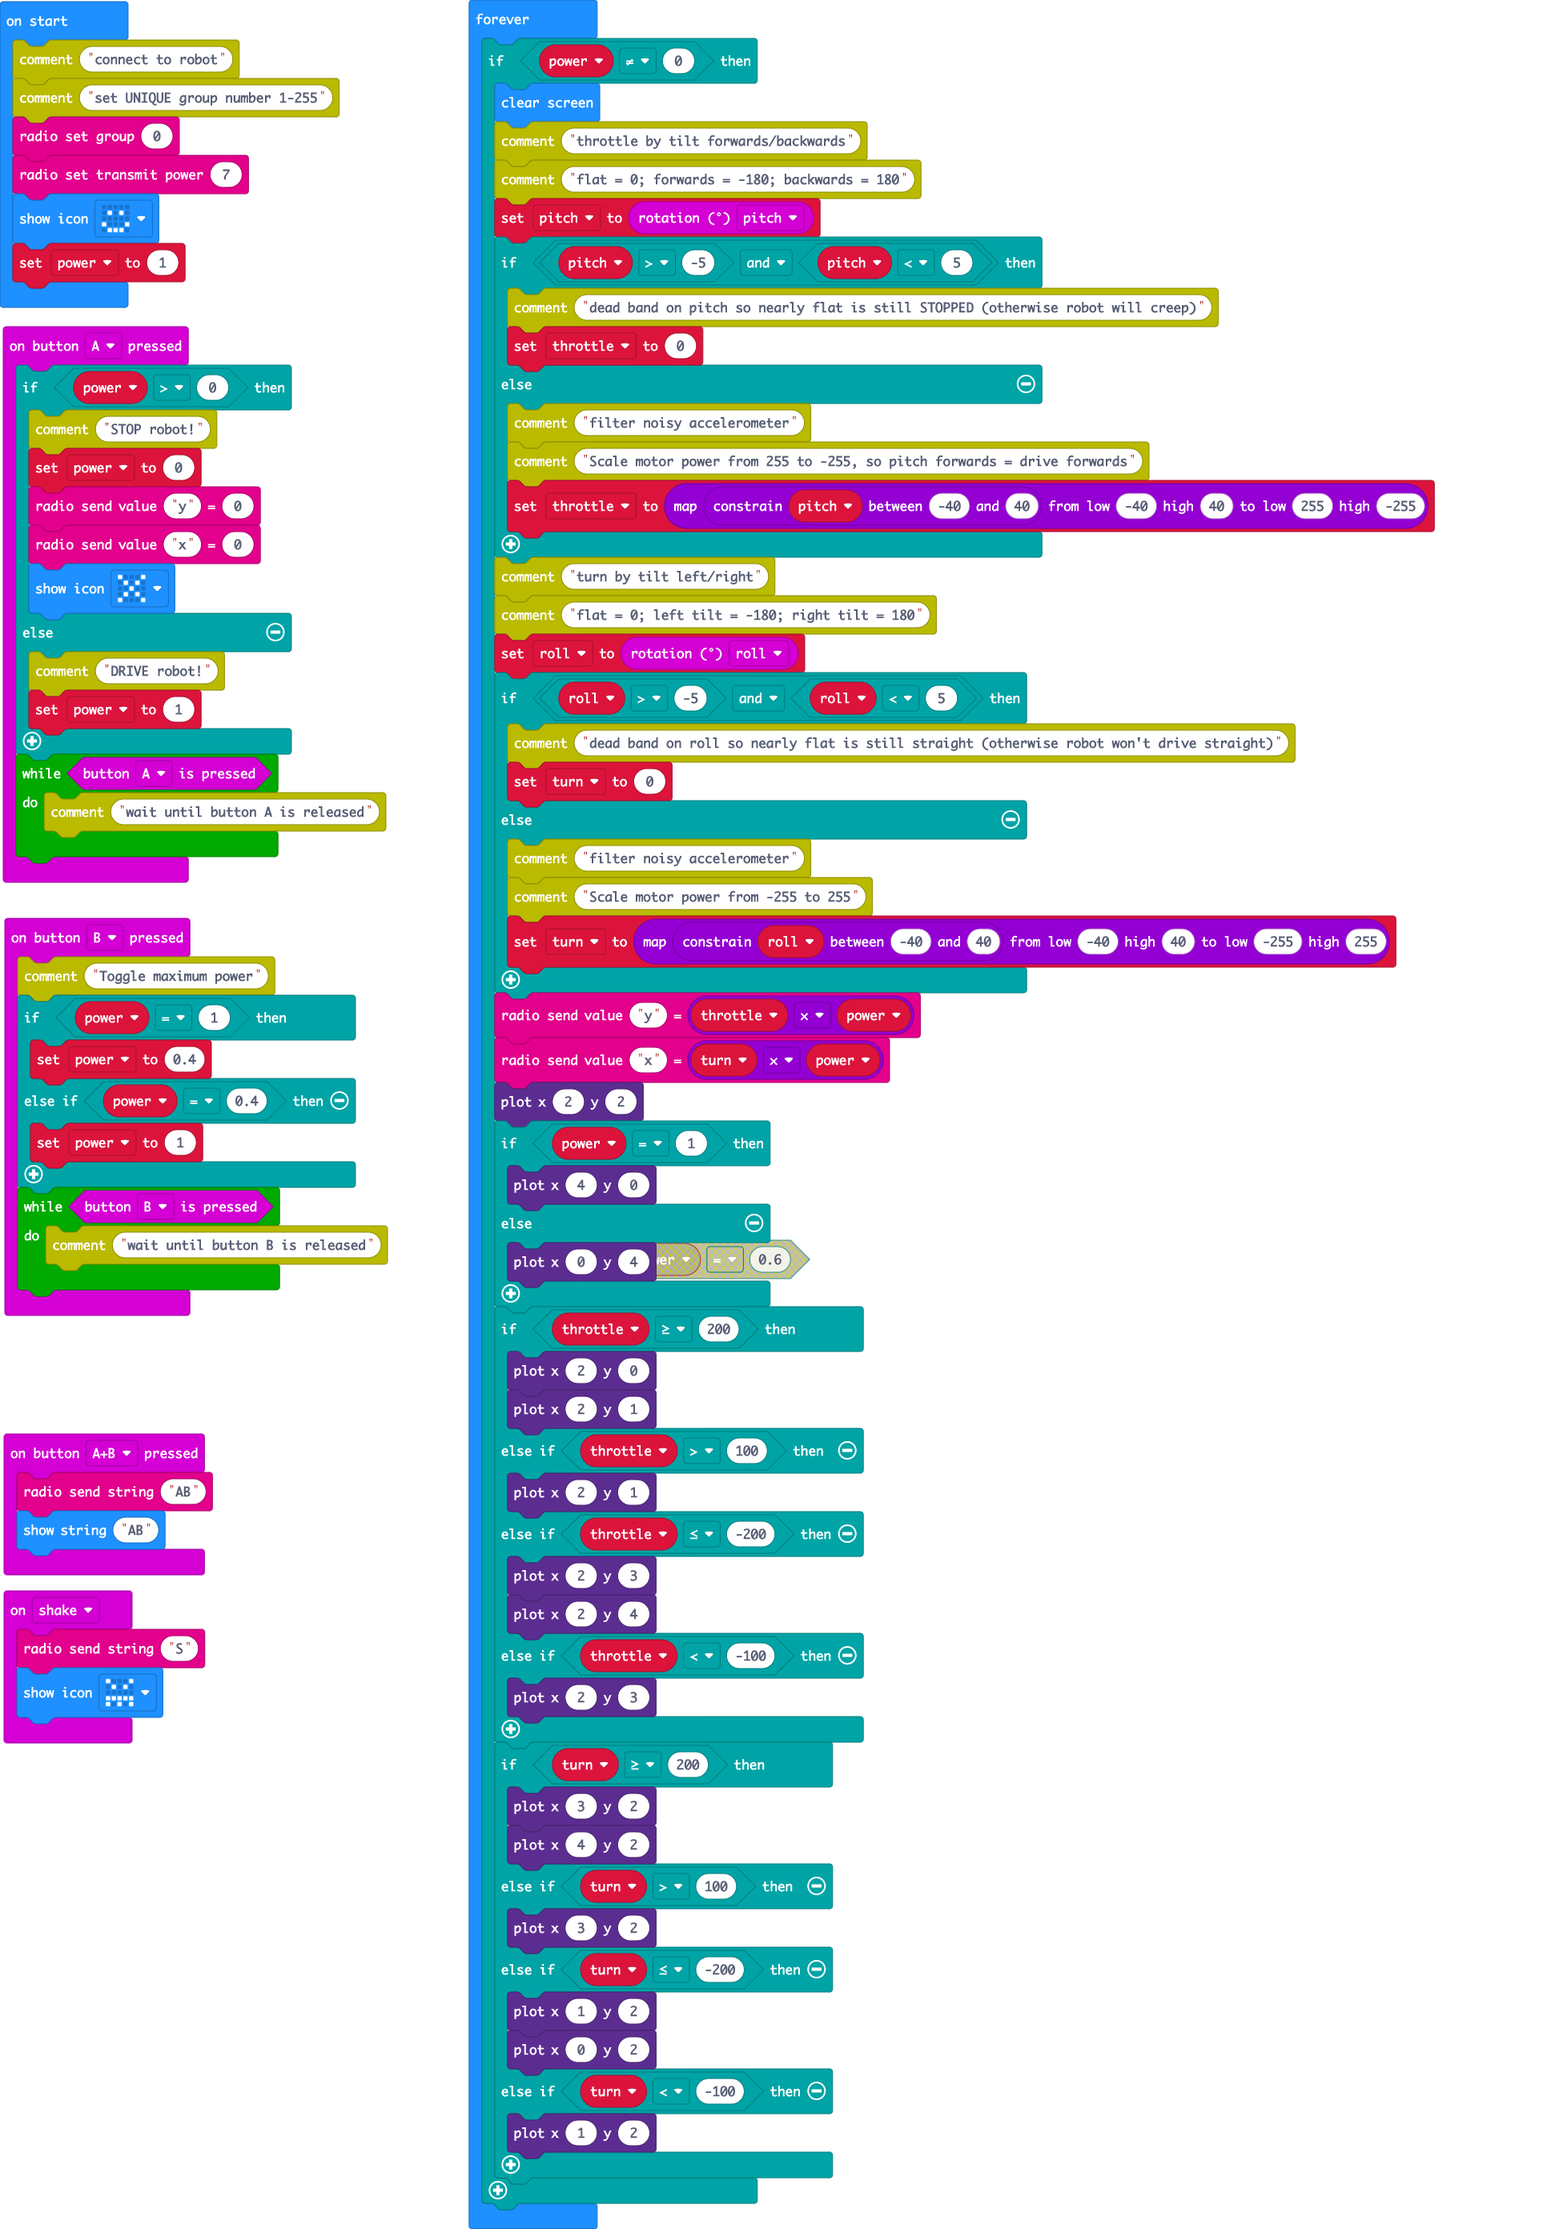
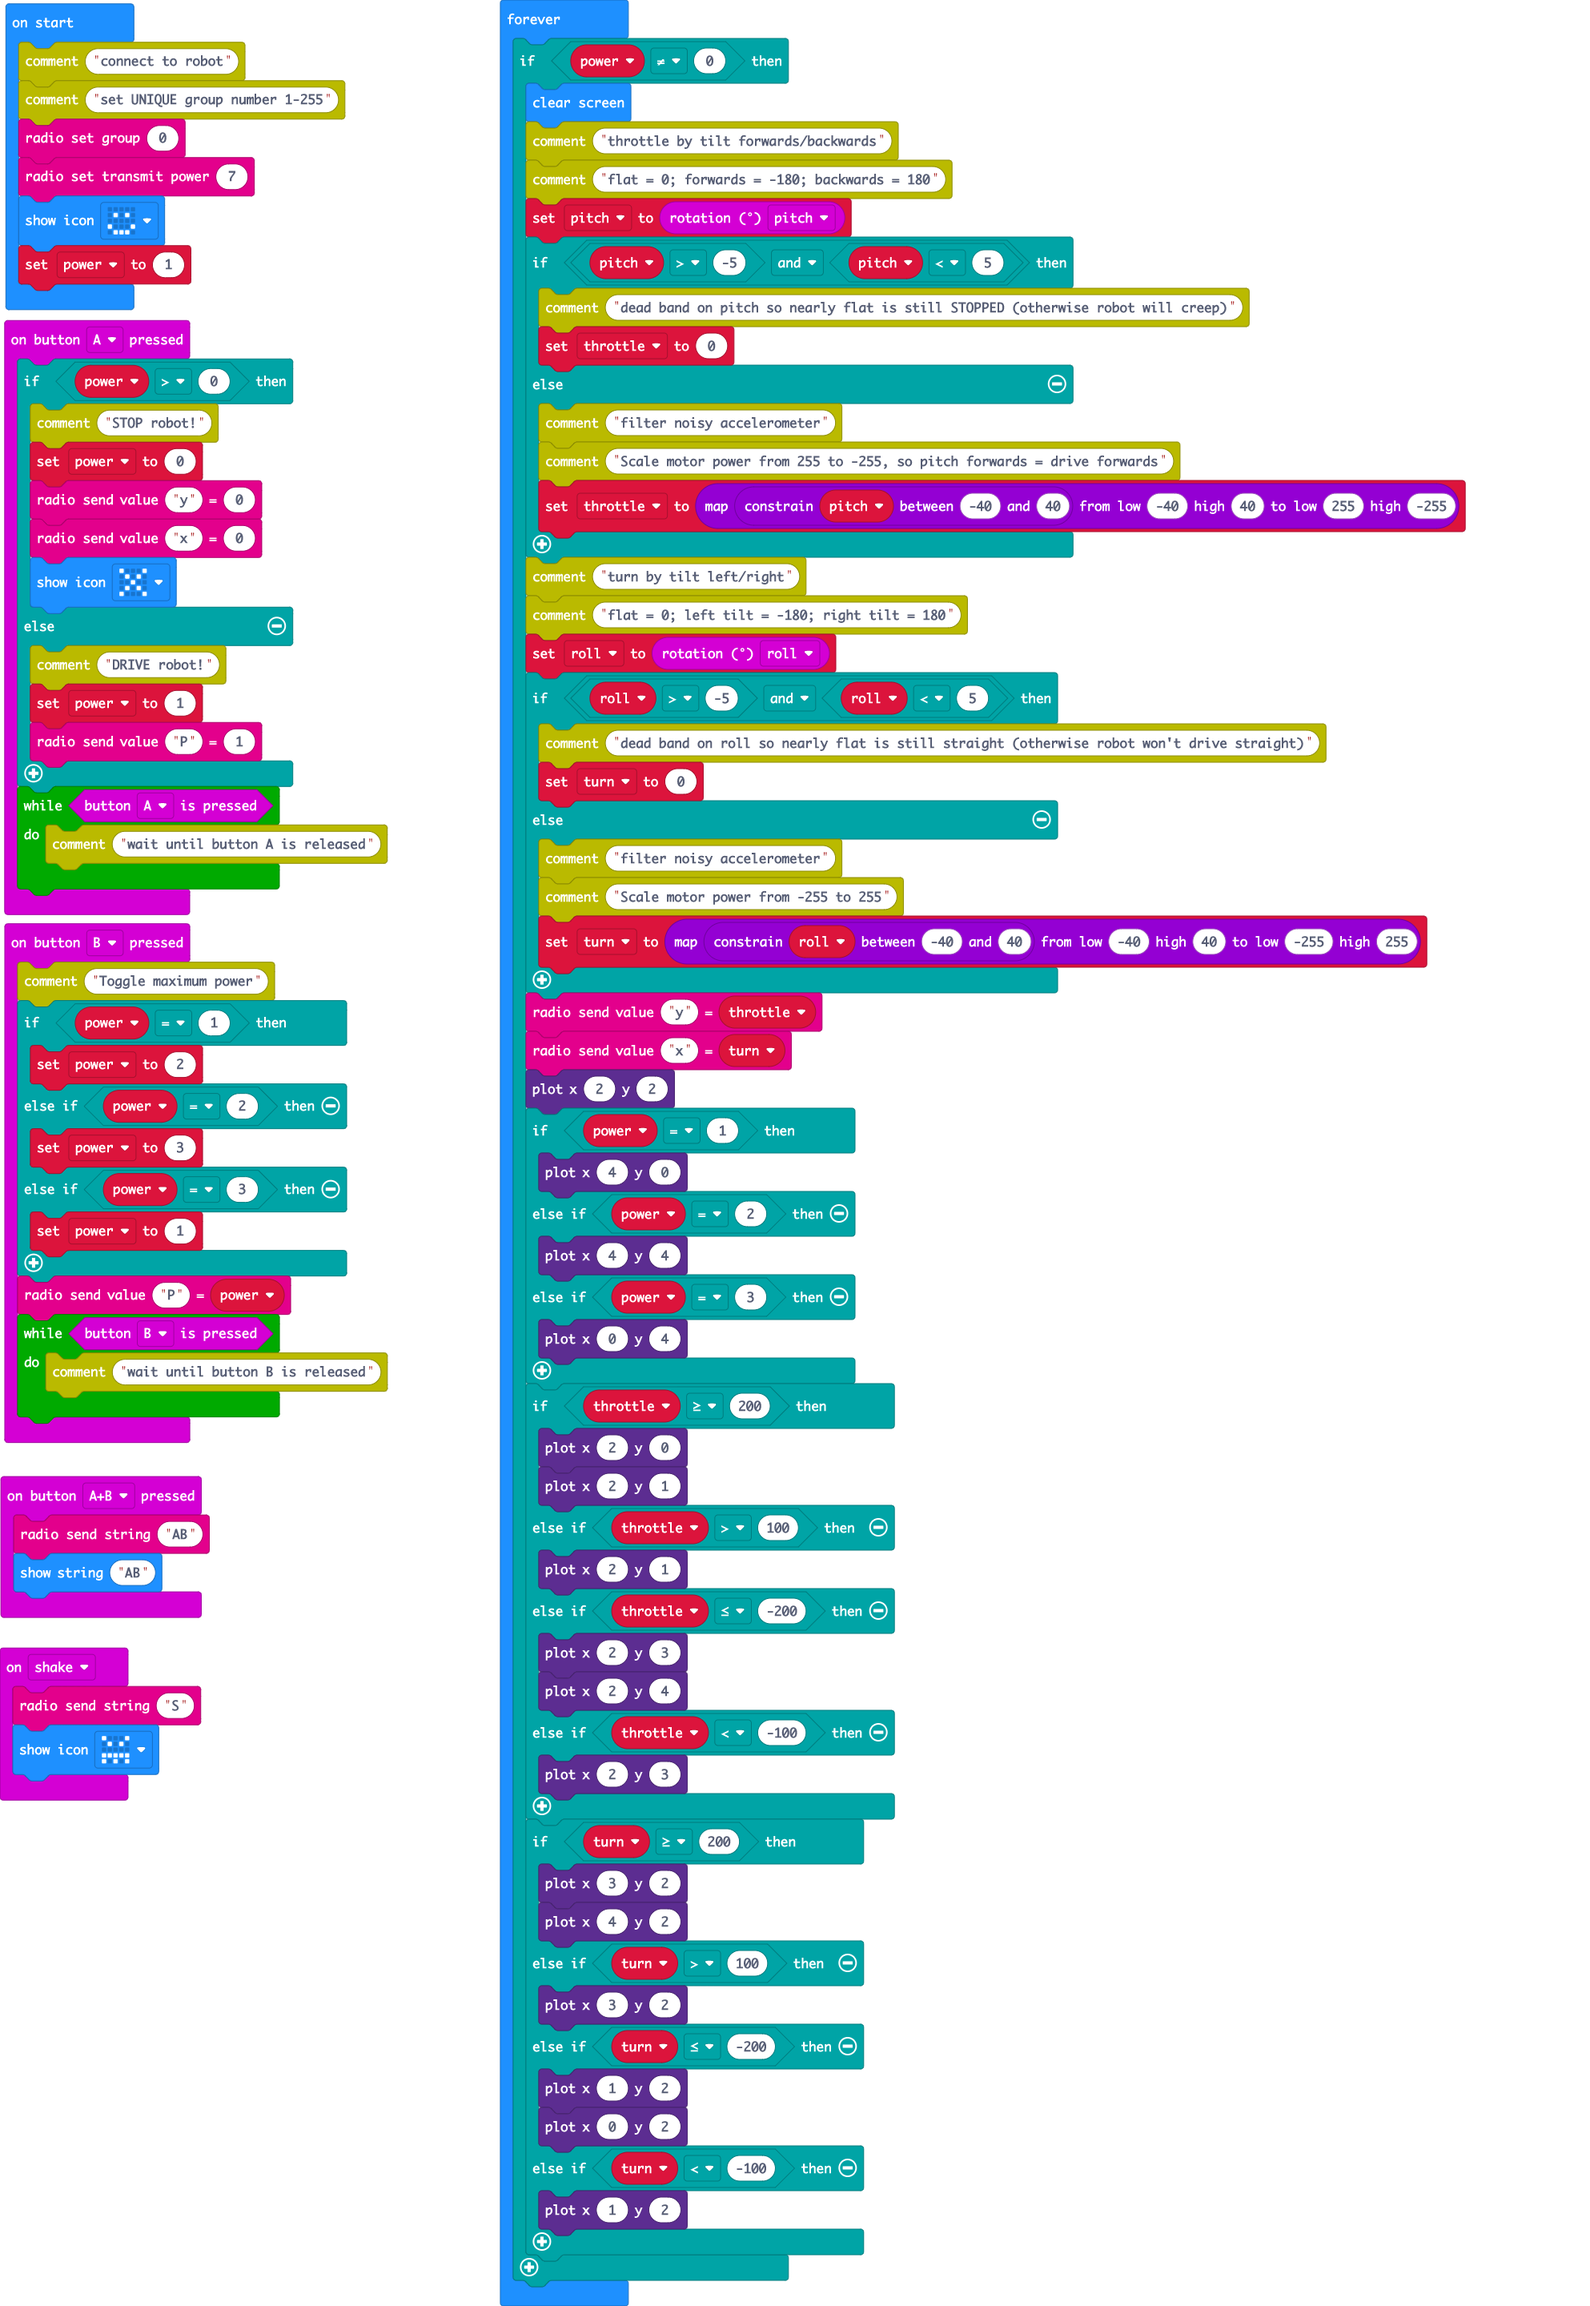
Update main.blocks, main.ts

Changed region(s): [[0.2773, 0.0, 0.9245, 1.0], [0.0, 0.0, 0.2465, 0.7812]]

diff --git a/main.ts b/main.ts
@@ -8,6 +8,7 @@ input.onButtonPressed(Button.A, function () {
     } else {
         comment.comment("DRIVE robot!")
         power = 1
+        radio.sendValue("P", 1)
     }
     while (input.buttonIsPressed(Button.A)) {
         comment.comment("wait until button A is released")
@@ -20,10 +21,13 @@ input.onButtonPressed(Button.AB, function () {
 input.onButtonPressed(Button.B, function () {
     comment.comment("Toggle maximum power")
     if (power == 1) {
-        power = 0.4
-    } else if (power == 0.4) {
+        power = 2
+    } else if (power == 2) {
+        power = 3
+    } else if (power == 3) {
         power = 1
     }
+    radio.sendValue("P", power)
     while (input.buttonIsPressed(Button.B)) {
         comment.comment("wait until button B is released")
     }
@@ -68,12 +72,14 @@ basic.forever(function () {
             comment.comment("Scale motor power from -255 to 255")
             turn = Math.map(Math.constrain(roll, -40, 40), -40, 40, -255, 255)
         }
-        radio.sendValue("y", throttle * power)
-        radio.sendValue("x", turn * power)
+        radio.sendValue("y", throttle)
+        radio.sendValue("x", turn)
         led.plot(2, 2)
         if (power == 1) {
             led.plot(4, 0)
-        } else {
+        } else if (power == 2) {
+            led.plot(4, 4)
+        } else if (power == 3) {
             led.plot(0, 4)
         }
         if (throttle >= 200) {
